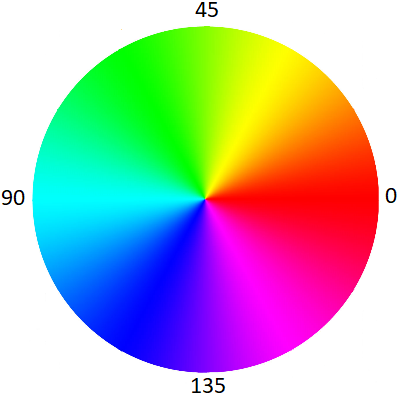
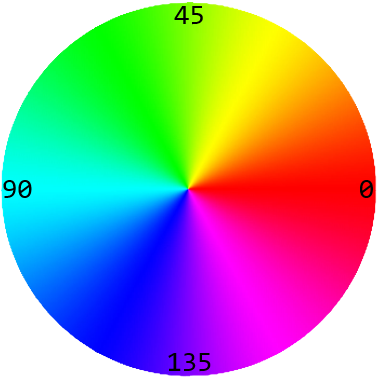
Added visualization for calibration params

Changed region(s): [[0.0, 0.0, 1.0, 1.0], [0.3492, 0.291, 0.6402, 0.7275]]

diff --git a/src/nodes/calibration.py b/src/nodes/calibration.py
@@ -1,13 +1,14 @@
 #!/usr/bin/env python3
 
-import os
-
 import rospy
 from std_msgs.msg import Int8MultiArray
 from sensor_msgs.msg import Image
 from cv_bridge import CvBridge
 
+import os
+import math
 import cv2 as cv
+import numpy as np
 
 from models.menus.enums import CalibrationMenu, MainMenu
 
@@ -19,7 +20,7 @@ class Calibration:
         self.option = CalibrationMenu(1).name
         # OpenCV attributes
         self.bridge = CvBridge()
-        self.hue_palette = cv.imread(os.path.join(os.path.dirname(__file__), '../../assets/hue_palette.png'), cv.IMREAD_COLOR)
+        self.hue_palette = cv.resize(cv.imread(os.path.join(os.path.dirname(__file__), '../../assets/hue_palette.png'), cv.IMREAD_COLOR),(300,300))
         # ROS attributes
         self.menu_sub = rospy.Subscriber('/menu_topic', Int8MultiArray, self.menuCallback)
         self.camera_sub = rospy.Subscriber('/cv_camera/image_raw', Image, self.cameraCallback)
@@ -32,19 +33,19 @@ class Calibration:
         if self.SELECTED:
             self.option = CalibrationMenu(list_msg.data[1])
 
-
     def cameraCallback(self, img_msg: Image):
         if self.SELECTED:
             # Convert image message
             frame = self.bridge.imgmsg_to_cv2(img_msg, 'bgr8')
-            # TODO Add image preprocessing
-            if rospy.get_param('/img/calibration/flip'): frame = cv.flip(frame, -1)
             # Add calibration title
-            text = 'C A L I B R A T I N G . . .'
+            text = ' CALIBRATING...'
             textsize = cv.getTextSize(text, cv.FONT_HERSHEY_COMPLEX, 2, 4)[0]
             cv.putText(frame, text, (10,textsize[1]+10), cv.FONT_HERSHEY_SIMPLEX, 2, (0, 0, 255), 6)
             # Add calibration visualization
-            if self.option ==  CalibrationMenu.Flip: self.calibrateFlip(frame)
+            if self.option == CalibrationMenu.Flip: frame = self.calibrateFlip(frame)
+            if self.option == CalibrationMenu.Blur: frame = self.calibrateBlur(frame)
+            if self.option == CalibrationMenu.Hue: frame = self.calibrateHue(frame)
+            if self.option == CalibrationMenu.Region: frame = self.calibrateRegion(frame)
             # Send image to visualizer node
             img_msg = self.bridge.cv2_to_imgmsg(frame, 'bgr8')
             self.visualizer_pub.publish(img_msg)
@@ -58,10 +59,69 @@ class Calibration:
         flip = rospy.get_param('/img/calibration/flip')
         # Draw param info
         text = 'Flip = ' + str(flip)
-        textsize = cv.getTextSize(text, cv.FONT_HERSHEY_COMPLEX, 1, 2)[0]
-        cv.rectangle(frame, (10, 100), (textsize[0]+10, textsize[1]+100), (255, 0, 0), cv.FILLED)
-        cv.putText(frame, text, (10,textsize[1]+100), cv.FONT_HERSHEY_SIMPLEX, 1, (0, 0, 0), 2)
+        cv.putText(frame, text, (10, 100), cv.FONT_HERSHEY_SIMPLEX, 1, (255, 0, 0), 2)
+        # Return transformed image
+        return frame
 
+    def calibrateBlur(self, frame):
+        # Get loaded param
+        blur = rospy.get_param('/img/calibration/blur')
+        # Draw param info
+        text = 'Blur = ' + str(blur)
+        cv.putText(frame, text, (10, 100), cv.FONT_HERSHEY_SIMPLEX, 1, (255, 0, 0), 2)
+        # Return transformed image
+        return frame
+
+    def calibrateHue(self, frame):
+        h, w, c = self.hue_palette.shape
+        M = 10
+        RADIUS = h//2
+        # Get loaded params
+        hue_min = rospy.get_param('/img/calibration/hue/min')
+        hue_max = rospy.get_param('/img/calibration/hue/max')
+        # Draw palette image
+        img = np.zeros(frame.shape, dtype=np.uint8) * 255
+        img[-h-M:-M,M:w+M,:] = self.hue_palette
+        frame = cv.addWeighted(img, 1.0, frame, 1.0, 0.0)
+        # Draw palette lines
+        CENTER = (w//2+M, img.shape[0]-h//2-M)
+        ang_min = -hue_min * 2
+        ang_max = -hue_max * 2
+        pt_min = (
+            CENTER[0] + int(RADIUS * math.cos(ang_min * math.pi / 180)),
+            CENTER[1] + int(RADIUS * math.sin(ang_min * math.pi / 180))
+        )
+        pt_max = (
+            CENTER[0] + int(RADIUS * math.cos(ang_max * math.pi / 180)),
+            CENTER[1] + int(RADIUS * math.sin(ang_max * math.pi / 180))
+        )
+        cv.line(frame, CENTER, pt_min, (100, 100, 100), 2)
+        cv.line(frame, CENTER, pt_max, (100, 100, 100), 2)
+        # Draw params info
+        text = 'Hue min = ' + str(hue_min)
+        cv.putText(frame, text, (10, 100), cv.FONT_HERSHEY_SIMPLEX, 1, (255, 0, 0), 2)
+        text = 'Hue max = ' + str(hue_max)
+        cv.putText(frame, text, (10, 150), cv.FONT_HERSHEY_SIMPLEX, 1, (255, 0, 0), 2)
+        # Return transformed image
+        return frame
+    
+    def calibrateRegion(self, frame):
+        # Get loaded params
+        region_center = rospy.get_param('/img/calibration/region/center')
+        region_size = rospy.get_param('/img/calibration/region/size')
+        # Draw region lines
+        h = int(frame.shape[0] * region_center)
+        s = int(frame.shape[0] * region_size/2)
+        cv.line(frame, (0,h), (frame.shape[1], h), (0,0,255), 2, cv.LINE_4)
+        cv.line(frame, (0,h-s), (frame.shape[1], h-s), (0,255,0), 2, cv.LINE_4)
+        cv.line(frame, (0,h+s), (frame.shape[1], h+s), (0,255,0), 2, cv.LINE_4)
+        # Draw params info
+        text = 'Region center = ' + str(round(region_center, 4))
+        cv.putText(frame, text, (10, 100), cv.FONT_HERSHEY_SIMPLEX, 1, (255, 0, 0), 2)
+        text = 'Region size = ' + str(round(region_size, 4))
+        cv.putText(frame, text, (10, 150), cv.FONT_HERSHEY_SIMPLEX, 1, (255, 0, 0), 2)
+        # Return transformed image
+        return frame
 
     # endregion
 

diff --git a/src/nodes/cli.py b/src/nodes/cli.py
@@ -1,14 +1,14 @@
 #!/usr/bin/env python3
 
-import sys
 import rospy
 from std_msgs.msg import Int8MultiArray
+
+import sys
+from pynput.keyboard import Key, Listener
 
 from models.menus.enums import *
 from models.menus.submenu import Submenu
 from models.menus.params import BoolParam, FloatParam, IntegerParam, EnumParam
-
-from pynput.keyboard import Key, Listener
 
 
 class Cli:
@@ -26,8 +26,7 @@ class Cli:
             .attachParam(BoolParam(CalibrationMenu.Flip, '/img/calibration/flip')) \
             .attachParam(IntegerParam(CalibrationMenu.Blur, '/img/calibration/blur', min=3, max=50, step=2)) \
             .attachSubmenu(CalibrationMenu.Hue, Submenu('Hue Limits', HueMenu)) \
-            .attachSubmenu(CalibrationMenu.Region, Submenu('Centroid Region Limits', RegionMenu)) \
-            .attachParam(IntegerParam(CalibrationMenu.Bounding_box_margin, '/img/calibration/bb_margin', min=0, max=50, step=5))
+            .attachSubmenu(CalibrationMenu.Region, Submenu('Centroid Region Limits', RegionMenu))
         menu.getSubmenu(MainMenu.Calibration).getSubmenu(CalibrationMenu.Hue) \
             .attachParam(IntegerParam(HueMenu.Min, '/img/calibration/hue/min', min=0, max=179, step=1)) \
             .attachParam(IntegerParam(HueMenu.Max, '/img/calibration/hue/max', min=0, max=179, step=1))
@@ -37,11 +36,11 @@ class Cli:
         # Classification menu
         menu.attachSubmenu(MainMenu.Classification, Submenu('Classification Options', ClassificationMenu))
         menu.getSubmenu(MainMenu.Classification) \
-            .attachParam(EnumParam(ClassificationMenu.Set_network, '/img/classification/network', enum=NetworkType))
+            .attachParam(EnumParam(ClassificationMenu.Set_network, '/img/classification/network', enum=NetworkType)) \
+            .attachParam(IntegerParam(ClassificationMenu.Image_size, '/img/classification/img_size', min=150, max=300, step=10)) \
+            .attachParam(IntegerParam(ClassificationMenu.Bounding_box_margin, '/img/classification/bb_margin', min=0, max=50, step=5))
         # Settings menu
         menu.attachSubmenu(MainMenu.Settings, Submenu('Global Settings', SettingsMenu))
-        menu.getSubmenu(MainMenu.Settings) \
-            .attachParam(IntegerParam(SettingsMenu.Image_size, '/img/classification/img_size', min=150, max=300, step=5))
         # Return built menu
         return menu
 

diff --git a/src/nodes/models/menus/params.py b/src/nodes/models/menus/params.py
@@ -64,12 +64,12 @@ class IntegerParam(BaseParam):
         self.__step: int = kwargs['step']
 
     def increase(self):
-        self.__value = self.__value + self.__step if self.__value < self.__max else self.__max
+        self.__value = self.__value + self.__step if self.__value < self.__max else self.__min
         self.setROSParam(self.__value)
         return self
 
     def decrease(self):
-        self.__value = self.__value - self.__step if self.__value > self.__min else self.__min
+        self.__value = self.__value - self.__step if self.__value > self.__min else self.__max
         self.setROSParam(self.__value)
         return self
 

diff --git a/src/nodes/models/menus/enums.py b/src/nodes/models/menus/enums.py
@@ -20,17 +20,18 @@ class CalibrationMenu(Enum):
     Blur = auto()
     Hue = auto()
     Region = auto()
-    Bounding_box_margin = auto()
     Save_params = auto()
 
 
 class ClassificationMenu(Enum):
     Set_network = auto()
+    Image_size = auto()
+    Bounding_box_margin = auto()
     Show_network_summary = auto()
 
 
 class SettingsMenu(Enum):
-    Image_size = auto()
+    OPTION_1 = auto()
     OPTION_2 = auto()
     OPTION_3 = auto()
 

diff --git a/src/nodes/models/menus/base.py b/src/nodes/models/menus/base.py
@@ -49,7 +49,7 @@ class BaseMenu:
 
     def show(self, infoMsg: str = None):
         # Display params
-        W = 80
+        W = 70
         V = 15
         # Restart screen
         os.system('clear')
